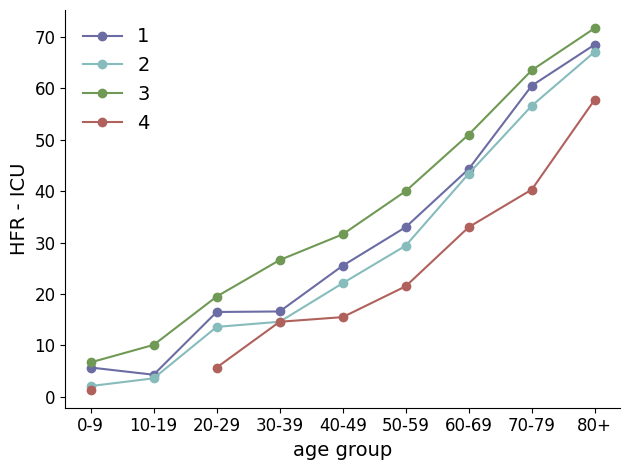
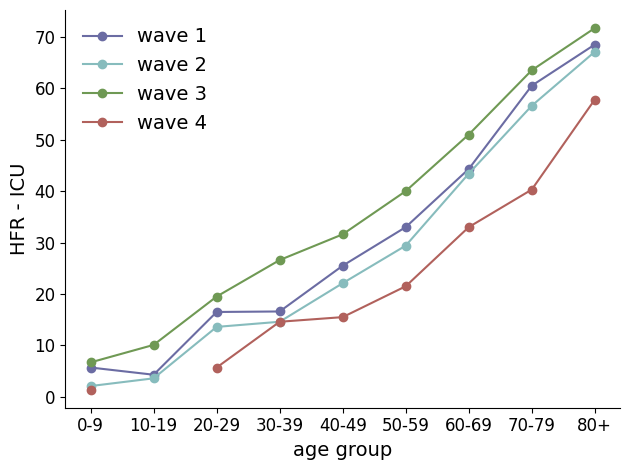
refractor: Minor changes in the functions to facilitate figures generation.

diff --git a/plot_scripts/results_severe_outcomes.py b/plot_scripts/results_severe_outcomes.py
@@ -127,49 +127,48 @@ fig.savefig(FIG_PATH+'hosp_icu_death_counts_hist.png')
 
 # Proportion histogram with binomial confidence interval
 # Auxiliar plot function
-def plot_proportions_histogram(df, ax, outcome_var, prop_lower, prop_upper, total_var='cases', strat=strat, side='center', width=0.3):
+def plot_proportions_histogram(df, ax, outcome_var, prop_lower, prop_upper, strat=strat, group='all',side='center', width=0.3):
     proportions = df[outcome_var].values
     yerr_lower = proportions - df[prop_lower].values
     yerr_upper = df[prop_upper].values - proportions
     yerr = [yerr_lower, yerr_upper]
     if side=='center':
-        ax.bar(df[strat], proportions, yerr=yerr, width=width)
+        ax.bar(df[strat], proportions, yerr=yerr, width=width, label=group)
     elif side=='left':
-        ax.bar(df[strat]-width/2, proportions, yerr=yerr, width=width)
+        ax.bar(df[strat]-width/2, proportions, yerr=yerr, width=width, label=group)
     elif side=='right':
-        ax.bar(df[strat]+width/2, proportions, yerr=yerr, width=width)
+        ax.bar(df[strat]+width/2, proportions, yerr=yerr, width=width, label=group)
     
 def plot_proportions_hist(ax):
     plot_proportions_histogram(df_proportions_all, ax[0], 
-                        outcome_var='hosp', prop_lower='hosp_lower', prop_upper='hosp_upper', side='left')
+                        outcome_var='hosp', prop_lower='hosp_lower', prop_upper='hosp_upper', side='left', group='all')
     plot_proportions_histogram(df_proportions_60p, ax[0], 
-                        outcome_var='hosp', prop_lower='hosp_lower', prop_upper='hosp_upper', side='right')
+                        outcome_var='hosp', prop_lower='hosp_lower', prop_upper='hosp_upper', side='right', group='60+')
 
     plot_proportions_histogram(df_proportions_all, ax[1], 
-                        outcome_var='icu', prop_lower='icu_lower', prop_upper='icu_upper', side='left')
+                        outcome_var='icu', prop_lower='icu_lower', prop_upper='icu_upper', side='left', group='all')
     plot_proportions_histogram(df_proportions_60p, ax[1], 
-                        outcome_var='icu', prop_lower='icu_lower', prop_upper='icu_upper', side='right')
+                        outcome_var='icu', prop_lower='icu_lower', prop_upper='icu_upper', side='right', group='60+')
 
     plot_proportions_histogram(df_proportions_all, ax[2], 
-                        outcome_var='death', prop_lower='death_lower', prop_upper='death_upper', side='left')
+                        outcome_var='death', prop_lower='death_lower', prop_upper='death_upper', side='left', group='all')
     plot_proportions_histogram(df_proportions_60p, ax[2], 
-                        outcome_var='death', prop_lower='death_lower', prop_upper='death_upper', side='right')
+                        outcome_var='death', prop_lower='death_lower', prop_upper='death_upper', side='right', group='60+')
 
 # Rates
 def plot_rates(ax, var, var_name):
     for wave in range(1,5):
         df_temp = df_rates[df_rates['wave'] == wave]
-        ax.plot(df_temp['age_group'], df_temp[var], marker = 'o', label = wave, color = colors[wave-1])
+        ax.plot(df_temp['age_group'], df_temp[var], marker = 'o', label = 'wave '+str(wave), color = colors[wave-1])
     ax.set_xlabel('age group')
     ax.set_ylabel(var_name)
-    handles, labels = ax.get_legend_handles_labels()
-    ax.legend(handles, labels, loc='upper left',numpoints=1)
-
 # CFR
 fig, ax = plt.subplots()
 var = 'CFR'
 var_name = 'CFR'
 plot_rates(ax, var, var_name)
+handles, labels = ax.get_legend_handles_labels()
+ax.legend(handles, labels, loc='upper left',numpoints=1)
 fig.savefig(FIG_PATH + f'{var}.png')
 
 # HCR
@@ -177,6 +176,8 @@ fig, ax = plt.subplots()
 var = 'HCR'
 var_name = 'HCR'
 plot_rates(ax, var, var_name)
+handles, labels = ax.get_legend_handles_labels()
+ax.legend(handles, labels, loc='upper left',numpoints=1)
 fig.savefig(FIG_PATH + f'{var}.png')
 
 # HCR - I
@@ -184,6 +185,8 @@ fig, ax = plt.subplots()
 var = 'HCR_I'
 var_name = 'HCR - ICU'
 plot_rates(ax, var, var_name)
+handles, labels = ax.get_legend_handles_labels()
+ax.legend(handles, labels, loc='upper left',numpoints=1)
 fig.savefig(FIG_PATH + f'{var}.png')
 
 # HFR - I
@@ -191,6 +194,8 @@ fig, ax = plt.subplots()
 var = 'HFR'
 var_name = 'HFR'
 plot_rates(ax, var, var_name)
+handles, labels = ax.get_legend_handles_labels()
+ax.legend(handles, labels, loc='upper left',numpoints=1)
 fig.savefig(FIG_PATH + f'{var}.png')
 
 # HFR - I
@@ -198,4 +203,6 @@ fig, ax = plt.subplots()
 var = 'HFR_I'
 var_name = 'HFR - ICU'
 plot_rates(ax, var, var_name)
+handles, labels = ax.get_legend_handles_labels()
+ax.legend(handles, labels, loc='upper left',numpoints=1)
 fig.savefig(FIG_PATH + f'{var}.png')
